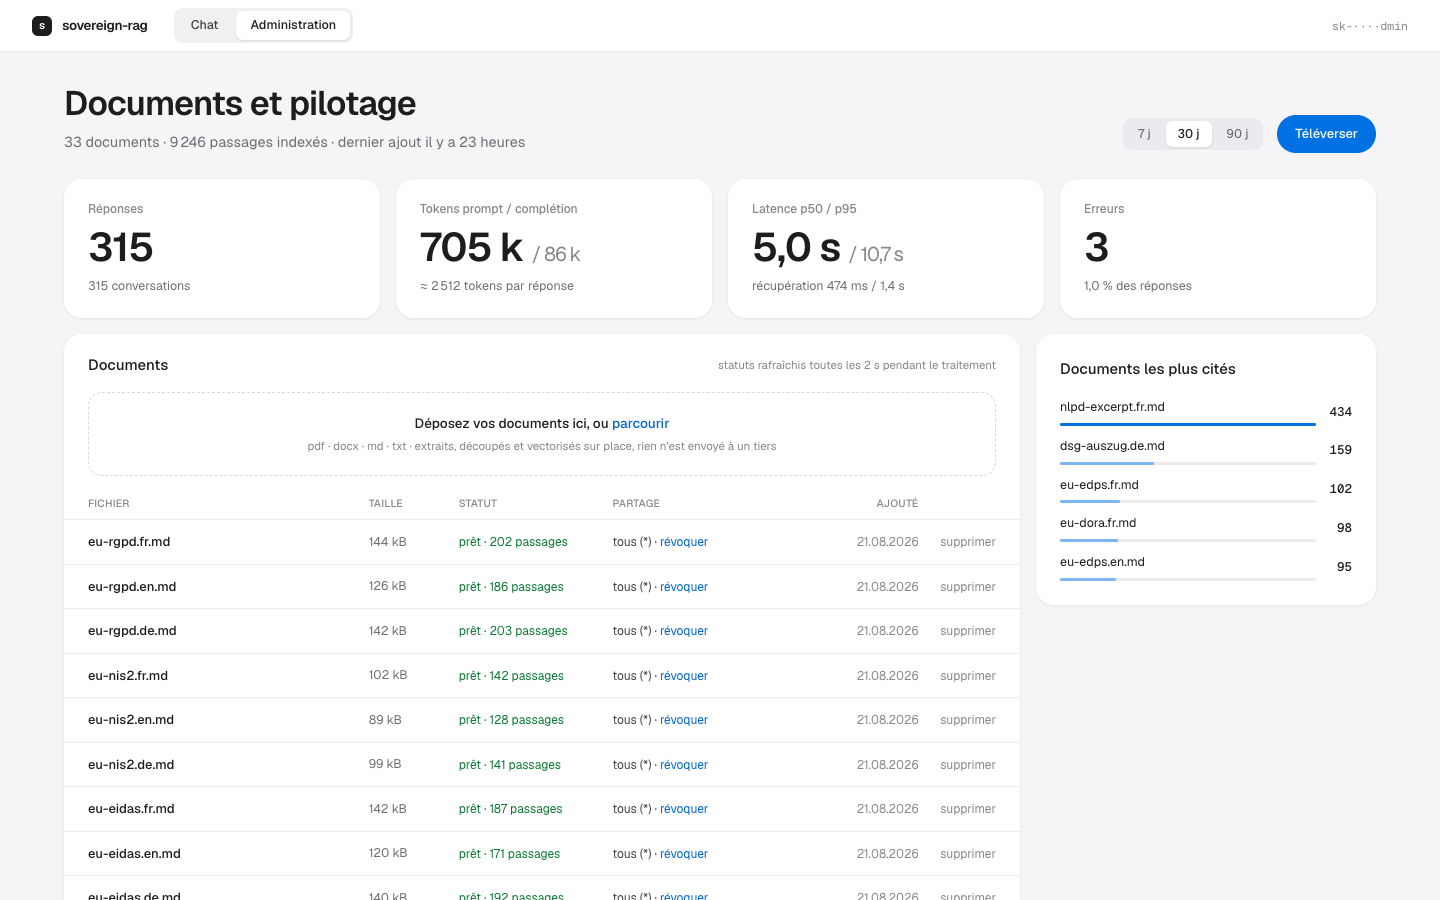
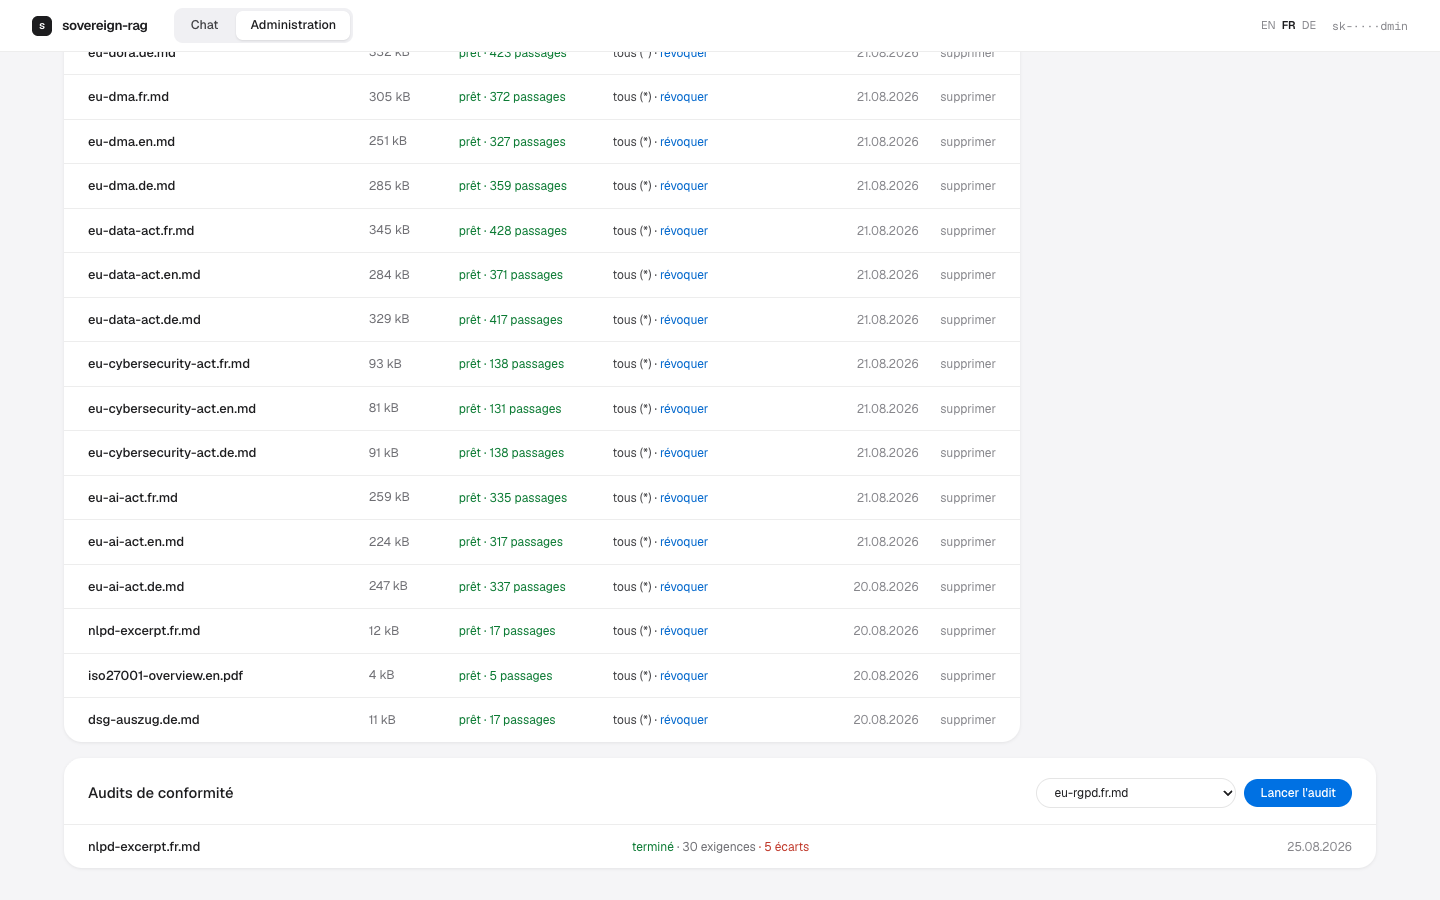
docs: the README tells the truth about the delivered roadmap
Phases 2 and 3 are shipped and measured; the roadmap now says so and
points at the changelog and the bench records, keeping only what is
honestly open (Azure profile, Entra guidance, group ACLs, the
faithfulness and ambiguity benches). The screenshots move to the
current product: the verified-answer toggle and conversation export in
the chat, the audits card in the admin.

diff --git a/README.md b/README.md
@@ -23,6 +23,12 @@ variables only.
 - **Cloud-optional, not cloud-dependent.** The same code talks to Azure OpenAI or any
   OpenAI-compatible API (vLLM, Infomaniak AI Tools, Mistral) by flipping environment variables.
   Every provider block in `.env.example` is annotated `# data leaves your infra: yes/no`.
+- **Agents when they earn it.** A verified-answer chat mode (every claim
+  checked against its citations before delivery) and a compliance auditor
+  (map a regulation, hunt evidence in your documents under your ACLs, get a
+  cited gap report from resumable background jobs). Both ship with the bench
+  that measured them, including the A/B the deep mode lost on retrieval:
+  what the label promises is exactly what was measured.
 - **Built for regulated Swiss and EU organizations.** Every assistant answer stores an audit
   snapshot of the exact sources shown to the user (excerpt, fused score, per-leg ranks) that
   survives document deletion. See [COMPLIANCE.md](COMPLIANCE.md) for the ISO 27001 / nLPD / LIPAD
@@ -54,7 +60,7 @@ Design decisions and trade-offs are documented in [ARCHITECTURE.md](ARCHITECTURE
 
 The public landing (trilingual EN / FR / DE) plays the demo above; the app itself is two screens.
 
-| Chat: citations open the sources panel | Admin: metrics, documents, sharing |
+| Chat: citations open the sources panel | Admin: metrics, documents, sharing, audits |
 |---|---|
 | ![Chat with the sources panel open: the active citation is highlighted, each passage shows its fused score and per-leg ranks](./assets/chat-sources.png) | ![Admin dashboard: usage, token and latency tiles over a selectable window, document table with per-document sharing](./assets/admin-dashboard.png) |
 
@@ -204,12 +210,20 @@ reproduce every number against a running stack are documented in [`bench/README.
 
 ## Roadmap
 
-- **Phase 2**: audit log, document ACLs, PII-redaction seam (Presidio), admin dashboard
-  (p50/p95 latency, token spend, top cited documents).
-- **Phase 3**: retrieval and answer evaluation: golden dataset FR/DE/EN, recall@k, MRR,
-  LLM-as-judge.
-- **Phase 4**: Azure deployment profile (Terraform: network, private endpoints, managed
-  identity).
+Phases 2 and 3 are delivered and measured: per-document ACLs enforced inside
+the retrieval query, an append-only audit trail, OIDC against your own IdP
+(backend and SPA), PII redaction at the LLM boundary shaped by its own
+bench, the admin dashboard, the public golden dataset with recall@k / MRR
+replayed in CI, and two multi-agent systems (a verified-answer chat mode
+and a resumable compliance auditor) each shipped with the bench that judged
+it. The record lives in [CHANGELOG.md](CHANGELOG.md) and [bench/results/](bench/results/).
+
+Still open, honestly:
+
+- **Phase 4**: Azure deployment profile (Terraform: network, private endpoints,
+  managed identity) and Entra ID guidance.
+- Group-based ACLs mapped from the IdP; a faithfulness bench for the
+  verified-answer mode; ambiguity strata for the compliance-audit bench.
 
 Both images are plain OCI containers: the stack ports to AKS (or any Kubernetes) by externalizing
 Postgres and secrets, with no code change required.
